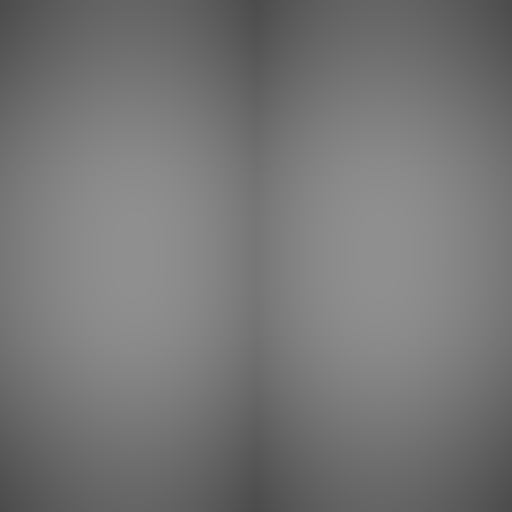
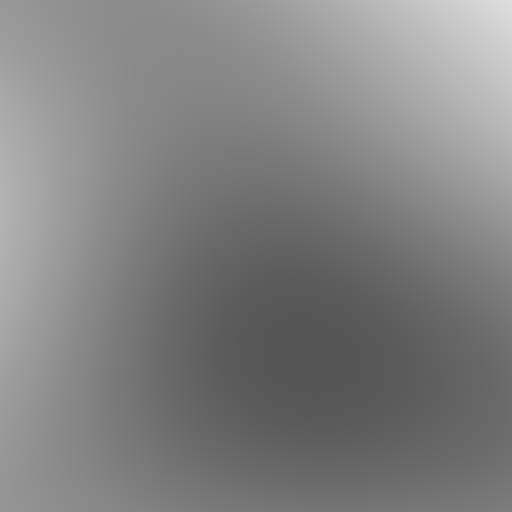
refactored mapgen

diff --git a/Assets/Scripts/MapGenerator.cs b/Assets/Scripts/MapGenerator.cs
@@ -11,42 +11,25 @@ using System.IO;
 
 public class MapGenerator : MonoBehaviour {
     public Terrain Terrain;
-    public RenderTexture RT;
-
-    // Width and height of the texture in pixels.
-    public int pixWidth;
-    public int pixHeight;
-
-    // The origin of the sampled area in the plane.
-    public float xOrg;
-    public float yOrg;
-
-    // The number of cycles of the basic noise pattern that are repeated
-    // over the width and height of the texture.
-    float scale = 1.0F;
-
-    private Texture2D noiseTex;
-    private Color[] pix;
-    private Renderer rend;
+    private RenderTexture rT;
 
     private void Start () {
-        RT = new RenderTexture(Data.heightMapWidth, Data.heightMapHeight, 16, RenderTextureFormat.ARGB1555);
-        RT.Create();
+        rT = new RenderTexture(Data.HeightMapWidth, Data.HeightMapHeight, 16, RenderTextureFormat.ARGB1555);
+        rT.Create();
     }
 
     void Update () {
         if (Input.GetKeyDown(KeyCode.G)) {
             print("generating a map");
-            //GenerateMap();
-            Texture2D heightMap = GenerateHeightMap(Data.heightMapWidth, Data.heightMapHeight);
+            Texture2D heightMap = GenerateHeightMap(Data.HeightMapWidth, Data.HeightMapHeight);
             WriteHeightMapToFile(heightMap);
-            LoadHeightmapFromFile(Data.pathHeightMap);
+            LoadHeightmapFromFile(Data.PathHeightMap);
         }
 
         if (Input.GetKeyDown(KeyCode.L)) {
             print("loading a map");
-            SaveToImage.SaveImage(Steganography.RecoverImage(Data.pathCombined, Data.screenShotWidth, Data.screenShotHeight, Data.bitsHidden, Data.heightMapWidth, Data.heightMapHeight), Data.pathRecovered);
-            LoadHeightmapFromFile(Data.pathRecovered);
+            SaveToImage.SaveImage(Steganography.RecoverImage(Data.PathCombined, Data.ScreenShotWidth, Data.ScreenShotHeight, Data.BitsHidden, Data.HeightMapWidth, Data.HeightMapHeight), Data.PathRecovered);
+            LoadHeightmapFromFile(Data.PathRecovered);
         }
     }
 
@@ -54,14 +37,21 @@ public class MapGenerator : MonoBehaviour {
         Texture2D heightmap = new Texture2D(width, height);
         List<Color32> list = new List<Color32>();
 
-        for (int y = 0; y < height; y++) {
-            for (int x = 0; x < width; x++) {
-                float nx = (float)x / (float)width - 0.5f;
-                float ny = (float)y / (float)height - 0.5f;
-                float v = Mathf.PerlinNoise(nx, ny);
-                Color32 c = new Color32((byte)(v*255), (byte)(v * 255), (byte)(v * 255), 255);
+        float seed = Random.Range(0f, 9999f);
+        float scale = Random.Range(Data.ScaleMin, Data.ScaleMax);
+
+        float y = 0.0f;
+        while (y < height) {
+            float x = 0.0f;
+            while (x < width) {
+                float xCoord = seed + x / width * scale;
+                float yCoord = seed + y / height * scale;
+                float sample = Mathf.PerlinNoise(xCoord, yCoord) + 0.25f;
+                Color c = new Color(sample, sample, sample);
                 list.Add(c);
+                x++;
             }
+            y++;
         }
         Color32[] colors = list.ToArray();
         heightmap.SetPixels32(colors);
@@ -70,65 +60,20 @@ public class MapGenerator : MonoBehaviour {
 
     void WriteHeightMapToFile(Texture2D tex) {
         byte[] bytes = tex.EncodeToPNG();
-        File.WriteAllBytes(Application.dataPath + Data.pathHeightMap, bytes);
-    }
-
-
-
-    void GenerateMap () {
-        scale = Random.Range(1f, 3f);
-
-        rend = GetComponent<Renderer>();
-
-        // Set up the texture and a Color array to hold pixels during processing.
-        noiseTex = new Texture2D(pixWidth, pixHeight);
-        pix = new Color[noiseTex.width * noiseTex.height];
-        rend.material.mainTexture = noiseTex;
-
-        CalcNoise();
-        byte[] bytes = noiseTex.EncodeToPNG();
-        File.WriteAllBytes(Application.dataPath + Data.pathHeightMap, bytes);
-
-        RenderTexture rt = new RenderTexture(Data.heightMapWidth, Data.heightMapHeight, 16, RenderTextureFormat.ARGB1555);
-        rt.Create();
-        Graphics.Blit(noiseTex, rt);
-        UpdateTerrainData(rt);
+        File.WriteAllBytes(Application.dataPath + Data.PathHeightMap, bytes);
     }
 
     void UpdateTerrainData (RenderTexture rt) {
-        RectInt rI = new RectInt(0, 0, Data.heightMapWidth, Data.heightMapHeight);
+        RectInt rI = new RectInt(0, 0, Data.HeightMapWidth, Data.HeightMapHeight);
         Vector2Int v2I = new Vector2Int(0, 0);
         Terrain.terrainData.CopyActiveRenderTextureToHeightmap(rI, v2I, TerrainHeightmapSyncControl.HeightOnly);
     }
-
-    void CalcNoise () {
-        // For each pixel in the texture...
-        float y = 0.0F;
-
-        while (y < noiseTex.height) {
-            float x = 0.0F;
-
-            while (x < noiseTex.width) {
-                float xCoord = xOrg + x / noiseTex.width * scale;
-                float yCoord = yOrg + y / noiseTex.height * scale;
-                float sample = Mathf.PerlinNoise(xCoord, yCoord) + 0.25f;
-                pix[(int)y * noiseTex.width + (int)x] = new Color(sample, sample, sample);
-                x++;
-            }
-            y++;
-        }
-
-        // Copy the pixel data to the texture and load it into the GPU.
-        noiseTex.SetPixels(pix);
-        noiseTex.Apply();
-    }
-
+    
     void LoadHeightmapFromFile(string path) {
         byte[] bytes = File.ReadAllBytes(Application.dataPath + path);
-        Texture2D tex = new Texture2D(Data.heightMapWidth, Data.heightMapHeight);
+        Texture2D tex = new Texture2D(Data.HeightMapWidth, Data.HeightMapHeight);
         tex.LoadImage(bytes);
-        Graphics.Blit(tex, RT);
-        UpdateTerrainData(RT);
+        Graphics.Blit(tex, rT);
+        UpdateTerrainData(rT);
     }
-
 }

diff --git a/Assets/Scripts/Data.cs b/Assets/Scripts/Data.cs
@@ -1,19 +1,20 @@
-using System.Collections;
-using System.Collections.Generic;
-using UnityEngine;
+using UnityEngine;
 
 public class Data : MonoBehaviour
 {
-    public static int heightMapWidth = 512;
-    public static int heightMapHeight = 512;
+    public static int HeightMapWidth = 512;
+    public static int HeightMapHeight = 512;
 
-    public static int screenShotWidth = 1024;
-    public static int screenShotHeight = 1024;
+    public static float ScaleMin = 0.1f;
+    public static float ScaleMax = 5f;
 
-    public static string pathHeightMap = "/../1_heightmap.png";
-    public static string pathScreenShot = "/../2_screenshot.png";
-    public static string pathCombined = "/../3_combined.png";
-    public static string pathRecovered = "/../4_recovered.png";
+    public static int ScreenShotWidth = 1024;
+    public static int ScreenShotHeight = 1024;
 
-    public static int bitsHidden = 5;
+    public static string PathHeightMap = "/../1_heightmap.png";
+    public static string PathScreenShot = "/../2_screenshot.png";
+    public static string PathCombined = "/../3_combined.png";
+    public static string PathRecovered = "/../4_recovered.png";
+
+    public static int BitsHidden = 5;
 }

diff --git a/Assets/Scripts/SaveToImage.cs b/Assets/Scripts/SaveToImage.cs
@@ -19,10 +19,10 @@ public class SaveToImage : MonoBehaviour
     {
         if (Input.GetKeyDown(KeyCode.S)) {
             print("taking a screenshot");
-            SaveImage(RTImage(cam), Data.pathScreenShot);
+            SaveImage(RTImage(cam), Data.PathScreenShot);
 
             print("combining images");
-            SaveImage(Steganography.HideImage(Data.pathScreenShot, Data.screenShotWidth, Data.screenShotHeight, Data.pathHeightMap, Data.heightMapWidth, Data.heightMapHeight, Data.bitsHidden), Data.pathCombined);
+            SaveImage(Steganography.HideImage(Data.PathScreenShot, Data.ScreenShotWidth, Data.ScreenShotHeight, Data.PathHeightMap, Data.HeightMapWidth, Data.HeightMapHeight, Data.BitsHidden), Data.PathCombined);
         }
     }
 
